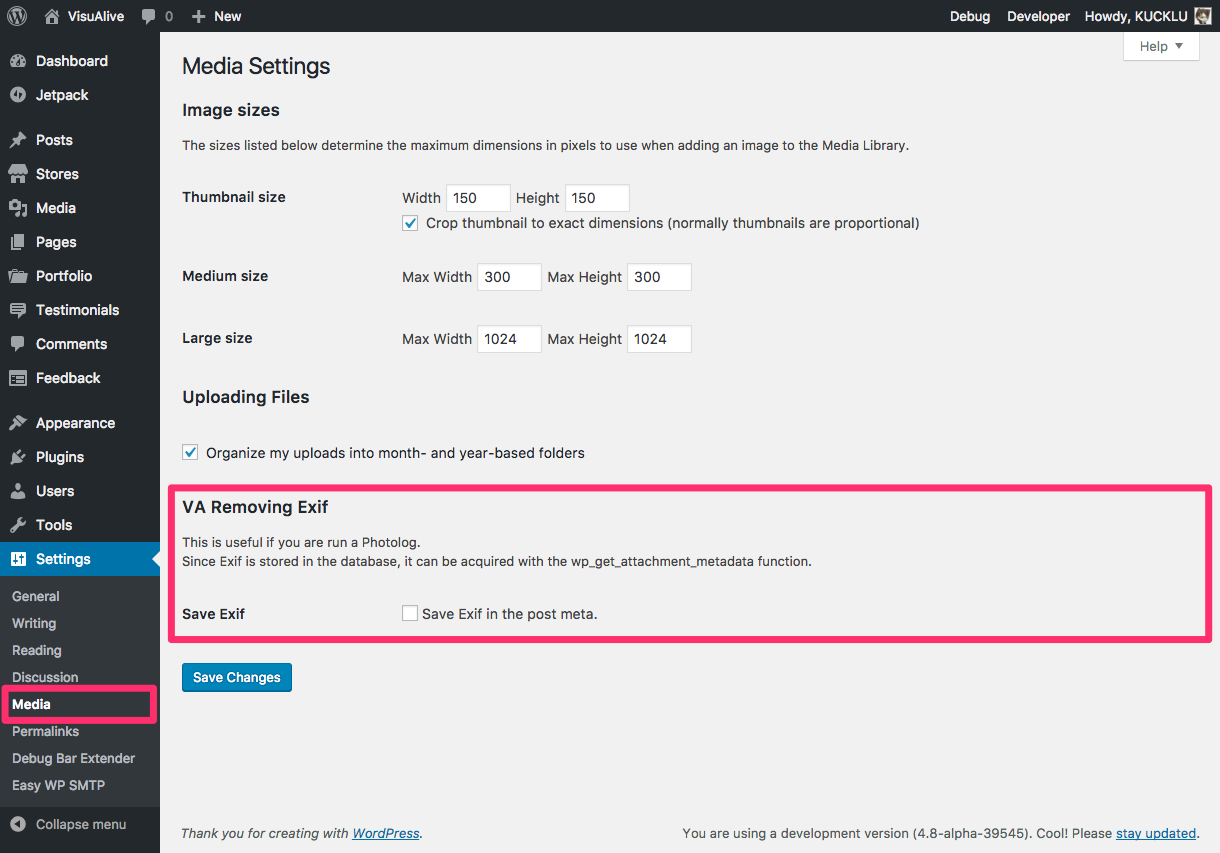
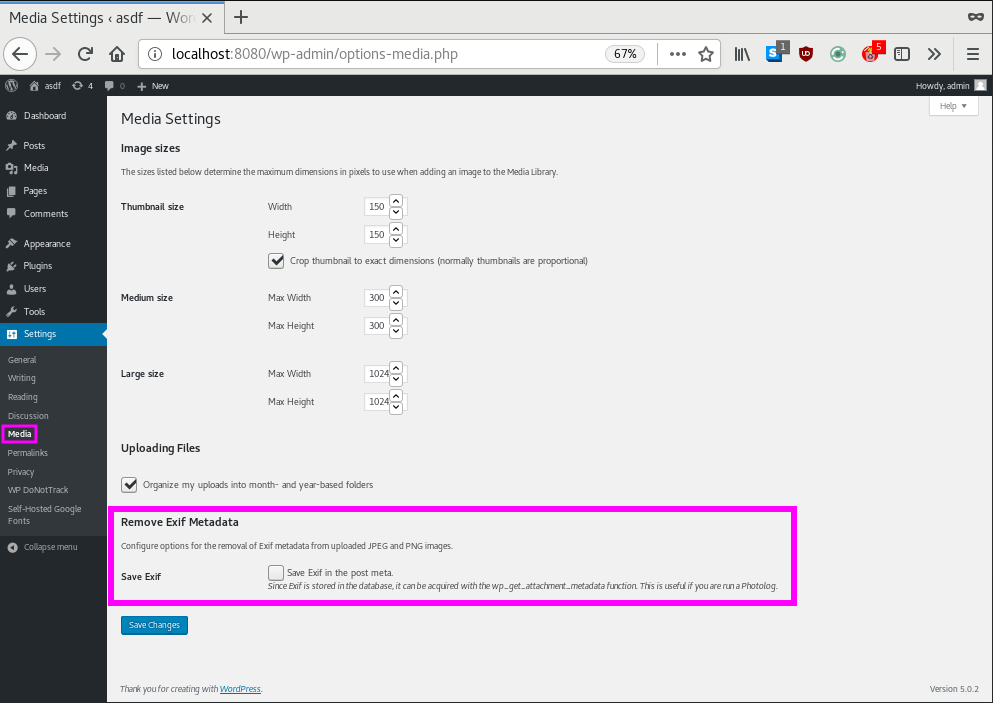
Version 1.0.2-alpha * Added support for PNG images * Added @dim-0 to contributors. * Minor adjustments to option page * Added german translation

Changed region(s): [[0.0, 0.0, 1.0, 1.0], [0.4371, 0.2987, 0.5307, 0.3286]]

diff --git a/incs/class-module-admin.php b/incs/class-module-admin.php
@@ -57,7 +57,7 @@ class Admin {
 	 */
 	public function admin_init() {
 		register_setting( 'media', VA_REMOVING_EXIF_NAME_OPTION, array( &$this, 'sanitize_option' ) );
-		add_settings_section( VA_REMOVING_EXIF_PREFIX . 'section', __( 'VA Removing Exif', 'va-removing-exif' ), array( &$this, 'section_description' ), 'media' );
+		add_settings_section( VA_REMOVING_EXIF_PREFIX . 'section', __( 'Remove Exif Metadata', 'va-removing-exif' ), array( &$this, 'section_description' ), 'media' );
 		add_settings_field(
 			VA_REMOVING_EXIF_PREFIX . 'save_exif',
 			'<label for="' . esc_attr( VA_REMOVING_EXIF_PREFIX . 'save_exif' ) . '">' . __( 'Save Exif', 'va-removing-exif' ) . '</label>',
@@ -68,11 +68,7 @@ class Admin {
 	}
 
 	public function section_description() {
-		printf(
-			'<p>%s<br>%s</p>',
-			esc_html( __( 'This is useful if you are run a Photolog.', 'va-removing-exif' ) ),
-			esc_html( __( 'Since Exif is stored in the database, it can be acquired with the wp_get_attachment_metadata function.', 'va-removing-exif' ) )
-		);
+		echo esc_html( __( 'Configure options for the removal of Exif metadata from uploaded JPEG and PNG images.', 'va-removing-exif' ) );
 	}
 
 	/**
@@ -80,11 +76,13 @@ class Admin {
 	 */
 	public function render_save_exif() {
 		printf(
-			'<label for="%1$s"><input id="%1$s" type="checkbox" name="%2$s" value="1"%3$s>%4$s</label>',
+			'<label for="%1$s"><input id="%1$s" type="checkbox" name="%2$s" value="1"%3$s>%4$s</label><br /><span class="description">%5$s %6$s</span>',
 			esc_attr( VA_REMOVING_EXIF_PREFIX . 'save_exif' ),
 			esc_attr( VA_REMOVING_EXIF_NAME_OPTION ),
 			checked( self::$option, '1', false ),
-			esc_html( __( 'Save Exif in the post meta.', 'va-removing-exif' ) )
+			esc_html( __( 'Save Exif in the post meta.', 'va-removing-exif' ) ),
+			esc_html( __( 'Since Exif is stored in the database, it can be acquired with the wp_get_attachment_metadata function.', 'va-removing-exif' ) ),
+			esc_html( __( 'This is useful if you are run a Photolog.', 'va-removing-exif' ) )
 		);
 	}
 

diff --git a/incs/class-module-core.php b/incs/class-module-core.php
@@ -182,28 +182,36 @@ class Core {
 	 * @return array
 	 */
 	public function _removing_exif( $upload = array() ) {
-		if ( ! isset( $upload['type'] ) || 'image/jpeg' !== $upload['type'] || ! vare_load() ) {
+		if ( ! vare_load()  || ! ( $upload['type'] === 'image/jpeg' || $upload['type'] === 'image/png' ) ){
 			return $upload;
 		}
-
-		$jpeg_quality = apply_filters( 'jpeg_quality', 90 );
 
 		if ( vare_imagick_exist() ) {
 			$image = new \Imagick( $upload['file'] );
 
 			if ( $image->valid() ) {
-				$image->setImageFormat( 'jpeg' );
-				$image->setImageCompressionQuality( $jpeg_quality );
+				if ( $upload['type'] === 'image/jpeg') {
+					$jpeg_quality = apply_filters( 'jpeg_quality', 90 );
+					$image->setImageFormat( 'jpeg' );
+					$image->setImageCompressionQuality( $jpeg_quality );
+				} elseif ( $upload['type'] === 'image/png' ) {
+					$image->setImageFormat( 'png' );
+				}
 				$image->stripImage();
 				$image->writeImage( $upload['file'] );
 				$image->clear();
 				$image->destroy();
 			}
 		} elseif ( vare_gd_exist() ) {
-			$image = imagecreatefromjpeg( $upload['file'] );
-
-			imagejpeg( $image, $upload['file'], $jpeg_quality );
-			imagedestroy( $image );
+			if ( $upload['type'] === 'image/jpeg' ) {
+				$image = imagecreatefromjpeg( $upload['file'] );
+				imagejpeg( $image, $upload['file'], $jpeg_quality );
+				imagedestroy( $image );
+			} elseif ( $upload['type'] === 'image/png' ) {
+				$image = imagecreatefrompng( $upload['file'] );
+				imagepng( $image, $upload['file'] );
+				imagedestroy( $image );
+			}
 		}
 
 		return $upload;

diff --git a/removing-exif.php b/removing-exif.php
@@ -2,9 +2,9 @@
 /**
  * Plugin Name: VA Removing Exif
  * Plugin URI: https://github.com/visualive/va-removing-exif
- * Description: Automatically remove all Exif data from the new JPEG images when uploading.
+ * Description: Automatically remove all Exif data from the new JPEG and PNG images when uploading.
  * Author: KUCKLU
- * Version: 1.0.1
+ * Version: 1.0.2
  * Author URI: https://www.visualive.jp
  * Domain Path: /langs
  * Text Domain: va-removing-exif

diff --git a/readme.md b/readme.md
@@ -1,11 +1,15 @@
 VA Removing Exif
 ==============================
 
-Automatically remove all Exif data from the new JPEG images when uploading.
+Automatically remove all Exif data from new JPEG and PNG images when uploading.
 
 ## Description
 
-Automatically remove all Exif data from the new JPEG images when uploading. Please note that already uploaded images will not be processed. If you want to delete Exif from the already uploaded image, please generate thumbnail image again with "[Regenerate Thumbnails](https://ja.wordpress.org/plugins/regenerate-thumbnails/)" etc.
+Automatically remove all Exif data from the JPEG and PNG images when uploading.
+
+Exif data can optionally be saved as metadata separately.
+
+Please note that already uploaded images will not be processed. If you want to delete Exif from the already uploaded image, please generate thumbnail image again with "[Regenerate Thumbnails](https://ja.wordpress.org/plugins/regenerate-thumbnails/)" etc.
 
 ### How to use
 
@@ -33,6 +37,12 @@ To install VA Removing Exif:
 **1. Settings > Media.**
 
 ## Changelog
+
+### 1.0.2
+* Added support for PNG images
+* Added [@dim-0](https://profiles.wordpress.org/lmika/) to contributors.
+* Minor adjustments to option page
+* Added german translation
 
 ### 1.0.1
 * Update description.
